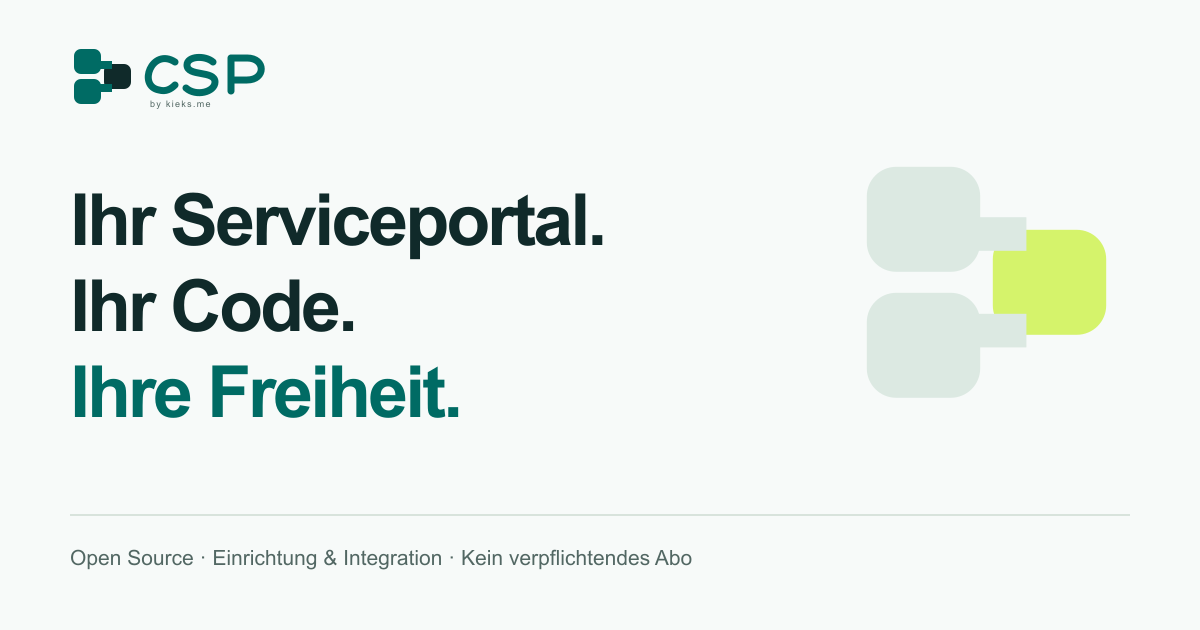
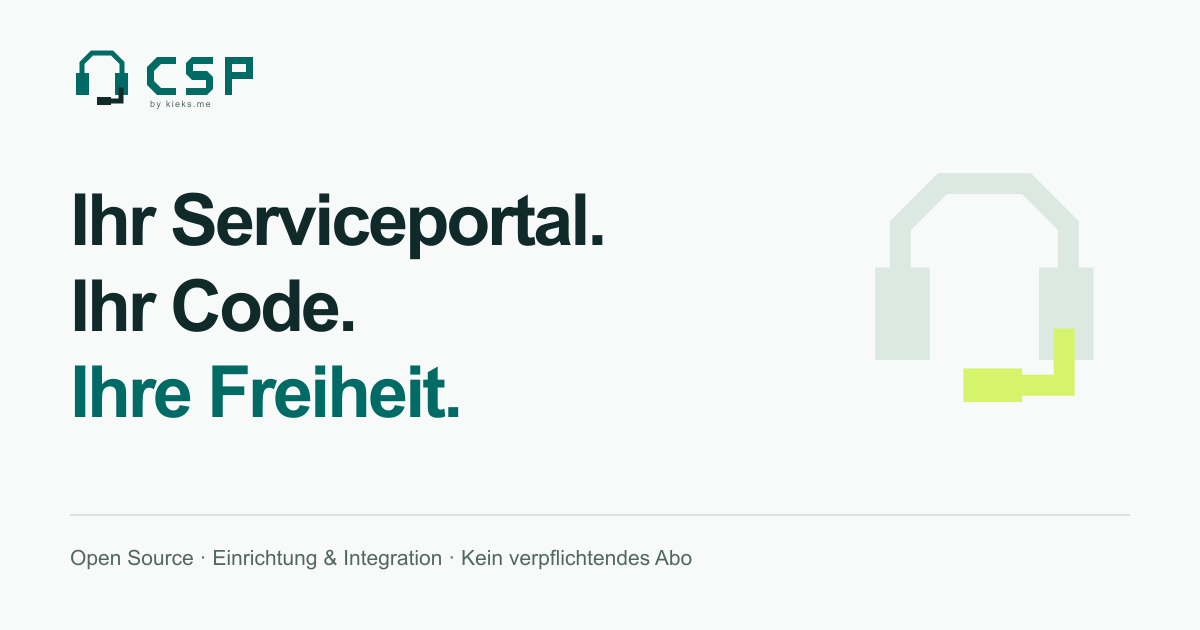
feat: highlight AI service goals and introduce angular headset brand

Changed region(s): [[0.7092, 0.2413, 0.925, 0.6635], [0.0617, 0.0603, 0.2467, 0.181]]

diff --git a/src/data/copy.ts b/src/data/copy.ts
@@ -16,11 +16,12 @@ export const copy = {
       first: "Ihr Serviceportal.",
       second: "Ihr Code.",
       third: "Ihre Freiheit.",
-      text: "Support, Status und Wissen an einem Ort. Wir integrieren das Open-Source-Portal in Ihre Systeme. Sie behalten die Kontrolle.",
+      text: "Support, Status und Wissen an einem Ort. KI kann Routinearbeit reduzieren und Kosten sparen. Ihre Kunden wählen jederzeit den direkten Weg zum Serviceteam – auch ohne KI.",
       proof: [
         "Open Source · MIT",
         "Einrichtung statt Lizenzverkauf",
         "Kein verpflichtendes Abo",
+        "Direkter Kontakt auch ohne KI",
       ],
       label: "Synthetische Produktdemo · Acme",
       note: "Ein Portal, das zu Ihrem Unternehmen passt.",
@@ -157,14 +158,19 @@ export const copy = {
             "CSP ist der zentrale Einstieg zum Support. Das Content-Plugin verlinkt Ihr vorhandenes Ticketsystem und bietet Vorlagen. Der KI-Chat legt keine Tickets an und verändert keine Alerts.",
         },
         {
-          question: "Wie werden Menschen in den Chat eingebunden?",
+          question: "Können unsere Kunden die KI jederzeit überspringen?",
           answer:
-            "Die optionalen Teams-, Slack- oder Telegram-Plugins unterstützen ausdrückliche Übernahme, Bot-Pause, Antworten, Freigabe und Abschluss. Pro Instanz wird ein Transport ausgewählt. Die tatsächliche Anbindung wird im Kundenprojekt live geprüft.",
+            "Ja. Die Hotline bietet einen direkten Kontakt ohne KI. Mit einem eingerichteten Teams-, Slack- oder Telegram-Support-Plugin können Kunden im Chat schon vor der ersten KI-Nachricht eine echte Person anfordern. Der Bot pausiert, das Serviceteam kann übernehmen. Besetzung und Antwortzeiten richten sich nach Ihren vereinbarten Servicezeiten.",
         },
         {
           question: "Sind unsere Informationen automatisch privat?",
           answer:
             "Nein. Die Standardmodule sind öffentlich; veröffentlichte Inhalte müssen dafür geeignet sein. Geschützte Supportgespräche und die jeweilige Anmeldung werden separat eingerichtet. Datenfreigaben, KI-Anbieter und Betrieb klären wir im Projekt.",
+        },
+        {
+          question: "Sind 80 Prozent KI-Vorfilterung bereits gemessen?",
+          answer:
+            "Die 80 Prozent sind unser Zielwert, noch keine eigene Messung. Vorfilterung bedeutet, wiederkehrende Fragen mit KI zu klären und Anliegen vorzubereiten. Die tatsächliche Quote und mögliche Kostenersparnis werden anhand Ihrer Anfragen und Prozesse im Projekt geprüft.",
         },
       ],
     },
@@ -188,7 +194,7 @@ export const copy = {
       intro:
         "Die visuelle Identität von CSP by kieks.me: modular, präzise und souverän. Die Quellen und Nutzungsregeln liegen im Repository.",
       palette: "Eine Palette mit Haltung.",
-      logos: "Drei Module. Ein gemeinsames Zeichen.",
+      logos: "Zuhören. Verbinden. Weiterhelfen.",
       typography: "Klarheit in jeder Zeile.",
       download: "Brand-Dateien ansehen",
       rights:
@@ -200,6 +206,24 @@ export const copy = {
       title: "Diese Seite ist nicht hier.",
       text: "Vielleicht ist der Link veraltet. Über die Startseite finden Sie Portal, Plugins und Kontakt.",
       link: "Zur Startseite",
+    },
+    aiService: {
+      eyebrow: "KI-ENTLASTUNG / FREIE WAHL",
+      title: "Weniger Routine.\nMehr Zeit für Service.",
+      description:
+        "KI kann wiederkehrende Fragen klären und Anliegen für Ihr Team vorbereiten. Das kann Bearbeitungsaufwand und Servicekosten reduzieren. Wie viel, hängt von Ihren Anfragen und der Qualität Ihrer Wissensquellen ab.",
+      targetLabel: "UNSER ZIELWERT",
+      target: "80 %",
+      targetText: "der Serviceanfragen mit KI vorfiltern",
+      targetNote:
+        "80 % ist ein Zielwert, noch keine eigene Messung. Die tatsächliche Vorfilterungsquote und der Kosteneffekt werden im Kundenprojekt gemessen.",
+      humanTitle: "Direkt zum Menschen. Jederzeit Ihre Wahl.",
+      humanText:
+        "Ihre Kunden können auf den KI-Assistenten verzichten: die Hotline direkt anwählen oder im Chat einen Service-Mitarbeiter anfordern – auch vor der ersten KI-Nachricht. Eine KI-Antwort muss dafür nicht abgewartet werden.",
+      humanDetails:
+        "Bei der menschlichen Supportanfrage pausiert der Bot. Das Serviceteam übernimmt das Gespräch. Die Chat-Weiterleitung benötigt ein eingerichtetes Teams-, Slack- oder Telegram-Plugin; Besetzung und Antwortzeiten richten sich nach den vereinbarten Servicezeiten.",
+      humanBadge: "Keine verpflichtende KI-Interaktion",
+      sourceLink: "So funktioniert die menschliche Übernahme",
     },
   },
   en: {
@@ -218,11 +242,12 @@ export const copy = {
       first: "Your service portal.",
       second: "Your code.",
       third: "Your freedom.",
-      text: "Support, status and knowledge in one place. We integrate the open-source portal with your systems. You stay in control.",
+      text: "Support, status and knowledge in one place. AI can reduce routine work and costs. Your customers can choose a direct route to your service team at any time, including without AI.",
       proof: [
         "Open source · MIT",
         "Setup instead of licence sales",
         "No mandatory subscription",
+        "Direct contact without AI",
       ],
       label: "Synthetic product demo · Acme",
       note: "A portal that fits your business.",
@@ -362,14 +387,19 @@ export const copy = {
             "CSP is the central starting point for support. The content plugin links to your existing ticket system and provides templates. AI chat does not create tickets or change alerts.",
         },
         {
-          question: "How does human chat support work?",
+          question: "Can our customers skip AI at any time?",
           answer:
-            "Optional Teams, Slack or Telegram plugins support explicit takeover, bot pause, replies, release and closure. Each instance uses one transport. The actual connection is verified live in your project.",
+            "Yes. The hotline provides direct contact without AI. With a configured Teams, Slack or Telegram support plugin, customers can request a real person in chat before the first AI message. The bot pauses and the service team can take over. Staffing and response times follow your agreed service hours.",
         },
         {
           question: "Is our information automatically private?",
           answer:
             "No. Standard modules are public, so published content must be suitable for that. Protected support conversations and their sign-in are set up separately. We agree data access, AI providers and operation as part of your project.",
+        },
+        {
+          question: "Is 80% AI pre-screening already measured?",
+          answer:
+            "80% is our target, not our own measured result. Pre-screening means using AI to clarify recurring questions and prepare requests. The actual rate and potential cost savings are assessed against your requests and processes in the project.",
         },
       ],
     },
@@ -393,7 +423,7 @@ export const copy = {
       intro:
         "The visual identity of CSP by kieks.me: modular, precise and confident. Sources and terms of use live in the repository.",
       palette: "A palette with purpose.",
-      logos: "Three modules. One shared mark.",
+      logos: "Listen. Connect. Help.",
       typography: "Clarity in every line.",
       download: "Explore the brand files",
       rights:
@@ -405,6 +435,24 @@ export const copy = {
       title: "This page isn’t here.",
       text: "The link may be out of date. Find the portal, plugins and contact on the homepage.",
       link: "Back to the homepage",
+    },
+    aiService: {
+      eyebrow: "AI ASSISTANCE / YOUR CHOICE",
+      title: "Less routine work.\nMore time for service.",
+      description:
+        "AI can answer recurring questions and prepare requests for your team. This can reduce handling effort and service costs. The impact depends on your requests and the quality of your knowledge sources.",
+      targetLabel: "OUR TARGET",
+      target: "80%",
+      targetText: "of service requests pre-screened with AI",
+      targetNote:
+        "80% is a target, not our own measured result. The actual pre-screening rate and cost impact are measured in the customer project.",
+      humanTitle: "Straight to a person. Always your choice.",
+      humanText:
+        "Your customers can skip the AI assistant: call the hotline directly or request a service team member in chat, even before the first AI message. There is no need to wait for an AI answer.",
+      humanDetails:
+        "A human support request pauses the bot. The service team takes over the conversation. Chat handover requires a configured Teams, Slack or Telegram plugin; staffing and response times follow the agreed service hours.",
+      humanBadge: "No mandatory AI interaction",
+      sourceLink: "How human takeover works",
     },
   },
 };

diff --git a/src/styles/global.css b/src/styles/global.css
@@ -1460,3 +1460,105 @@ article[id] {
     transition: none !important;
   }
 }
+
+.ai-service {
+  padding-top: 0;
+}
+.ai-service-grid {
+  display: grid;
+  grid-template-columns: 0.85fr 1.15fr;
+  gap: 24px;
+  margin-top: 42px;
+}
+.ai-target {
+  background: var(--ink);
+  color: var(--white);
+  border-radius: var(--radius);
+  padding: 36px;
+  display: flex;
+  flex-direction: column;
+}
+.ai-target .eyebrow {
+  color: var(--lime);
+}
+.ai-target .target-number {
+  color: var(--lime);
+  font-size: clamp(4.5rem, 8vw, 7rem);
+  font-weight: 650;
+  letter-spacing: -0.07em;
+  line-height: 1.2;
+  margin-block: 18px 12px;
+}
+.ai-target h3 {
+  font-size: 1.35rem;
+  max-width: 290px;
+  line-height: 1.35;
+}
+.ai-target .target-note {
+  font-size: 12px;
+  line-height: 1.85;
+  color: #b7c9c2;
+  border-top: 1px solid #45605a;
+  padding-top: 24px;
+  margin-top: 30px;
+}
+.human-choice {
+  border: 1px solid var(--line);
+  border-radius: var(--radius);
+  padding: 36px;
+  background: var(--white);
+}
+.human-choice .plugin-icon {
+  display: inline-flex;
+  margin-right: 12px;
+  vertical-align: middle;
+}
+.human-choice h3 {
+  font-size: 1.55rem;
+  line-height: 1.2;
+  margin-block: 24px 18px;
+  max-width: 430px;
+}
+.human-choice > p {
+  font-size: 14px;
+  line-height: 1.85;
+}
+.human-choice .human-details {
+  font-size: 11px;
+  margin-top: 20px;
+}
+@media (max-width: 820px) {
+  .ai-service-grid {
+    grid-template-columns: 1fr;
+  }
+  .ai-target {
+    padding: 28px;
+  }
+  .ai-target h3 {
+    max-width: none;
+  }
+  .ai-target .target-number {
+    font-size: 5.5rem;
+  }
+  .human-choice {
+    padding: 28px;
+  }
+}
+@media (max-width: 480px) {
+  .ai-service-grid {
+    gap: 18px;
+    margin-top: 30px;
+  }
+  .human-choice .badge {
+    display: block;
+    width: max-content;
+    max-width: 100%;
+    margin-top: 16px;
+  }
+  .human-choice h3 {
+    font-size: 1.3rem;
+  }
+  .human-choice > p {
+    font-size: 13px;
+  }
+}

diff --git a/brand/README.md b/brand/README.md
@@ -10,9 +10,11 @@ CSP bündelt Kundenservice, Bereitschaft, Status und Wissen. Das Produkt ist Ope
 
 Zielgruppe: IT-Verantwortliche im Mittelstand. Ton: klar, direkt, fachlich korrekt, professionelle Sie-Ansprache. Zeigen, was CSP kann; keine behaupteten Einsparungen, Garantien, Partnerschaften oder Kundenreferenzen. Aussagen über Automatisierung von echten Handlungen nur mit belegter Funktion. Die Standardmodule sind öffentlich.
 
+KI-Entlastung: 80 % der Serviceanfragen vorfiltern ist ein Zielwert, noch keine eigene Messung. Mögliche Kostenersparnis wird im Kundenprojekt geprüft. Nutzer können die KI jederzeit überspringen: per Hotline oder über menschliche Chat-Übernahme mit eingerichtetem Support-Plugin. Keine sofortige Antwort oder durchgehende Besetzung versprechen; es gelten vereinbarte Servicezeiten.
+
 ## Bildmarke und Logo
 
-Drei verbundene Module stehen für Kontakt, Wissen und Systeme. Die CSP-Buchstaben sind als Vektorpfade gezeichnet; die kleine Anbieterzeile bleibt editierbarer Text. Der Schrift-Fallback für diese Zeile ist Arial/sans-serif. Ein neues Brand ist keine zugesicherte Markenregistrierung.
+Ein kantiges Headset mit geradem Mikrofonarm steht für Zuhören und den direkten Kontakt zum Serviceteam. Der Bügel hat abgeschrägte Ecken, die Ohrmuscheln sind rechteckig. Die geometrischen CSP-Buchstaben sind als Vektorpfade gezeichnet; die kleine Anbieterzeile bleibt editierbarer Text. Der Schrift-Fallback für diese Zeile ist Arial/sans-serif. Ein neues Brand ist keine zugesicherte Markenregistrierung.
 
 `assets/logo-primary.svg` für helle Flächen, `logo-light.svg` für dunkle Flächen; `logo-mono-dark.svg` und `logo-mono-light.svg` für einfarbige Anwendungen. `icon.svg` für kleine quadratische Anwendungen. Mindestbreite Wortmarke: 120 px; Icon: 24 px. Freiraum mindestens eine halbe Symbolhöhe. Nicht strecken, drehen, umfärben oder mit Effekten verändern. Der Web-Brand-Guide zeigt Anwendungen.
 

diff --git a/CHANGELOG.md b/CHANGELOG.md
@@ -2,8 +2,9 @@
 
 ## 1.0.0 — 2026-10-13
 
-- Neue Corporate Identity für CSP by kieks.me, mit editierbaren Logos und deutsch-englischen Social-Bildern.
+- Neue Corporate Identity für CSP by kieks.me, mit kantigem Headset-Logo, editierbaren Varianten und deutsch-englischen Social-Bildern.
 - Zweisprachige statische Marketing-Website mit vollständigem Acht-Plugin-Katalog, Projektangebot und transparenter Kostenabgrenzung.
+- KI-Vorfilterung mit 80 % als explizitem Zielwert, möglicher Kostenentlastung und freier Wahl des direkten menschlichen Supports.
 - Atomic-Design-Komponenten, lokale Schrift, responsive Layouts und zugängliche Navigation.
 - Drei Kunden-Skills für Branding, Inhalte und eigene Plugins mit Beispielen und Übergabeanleitung.
 - CI, Browserprüfungen und GitHub-Pages-Deployment.
